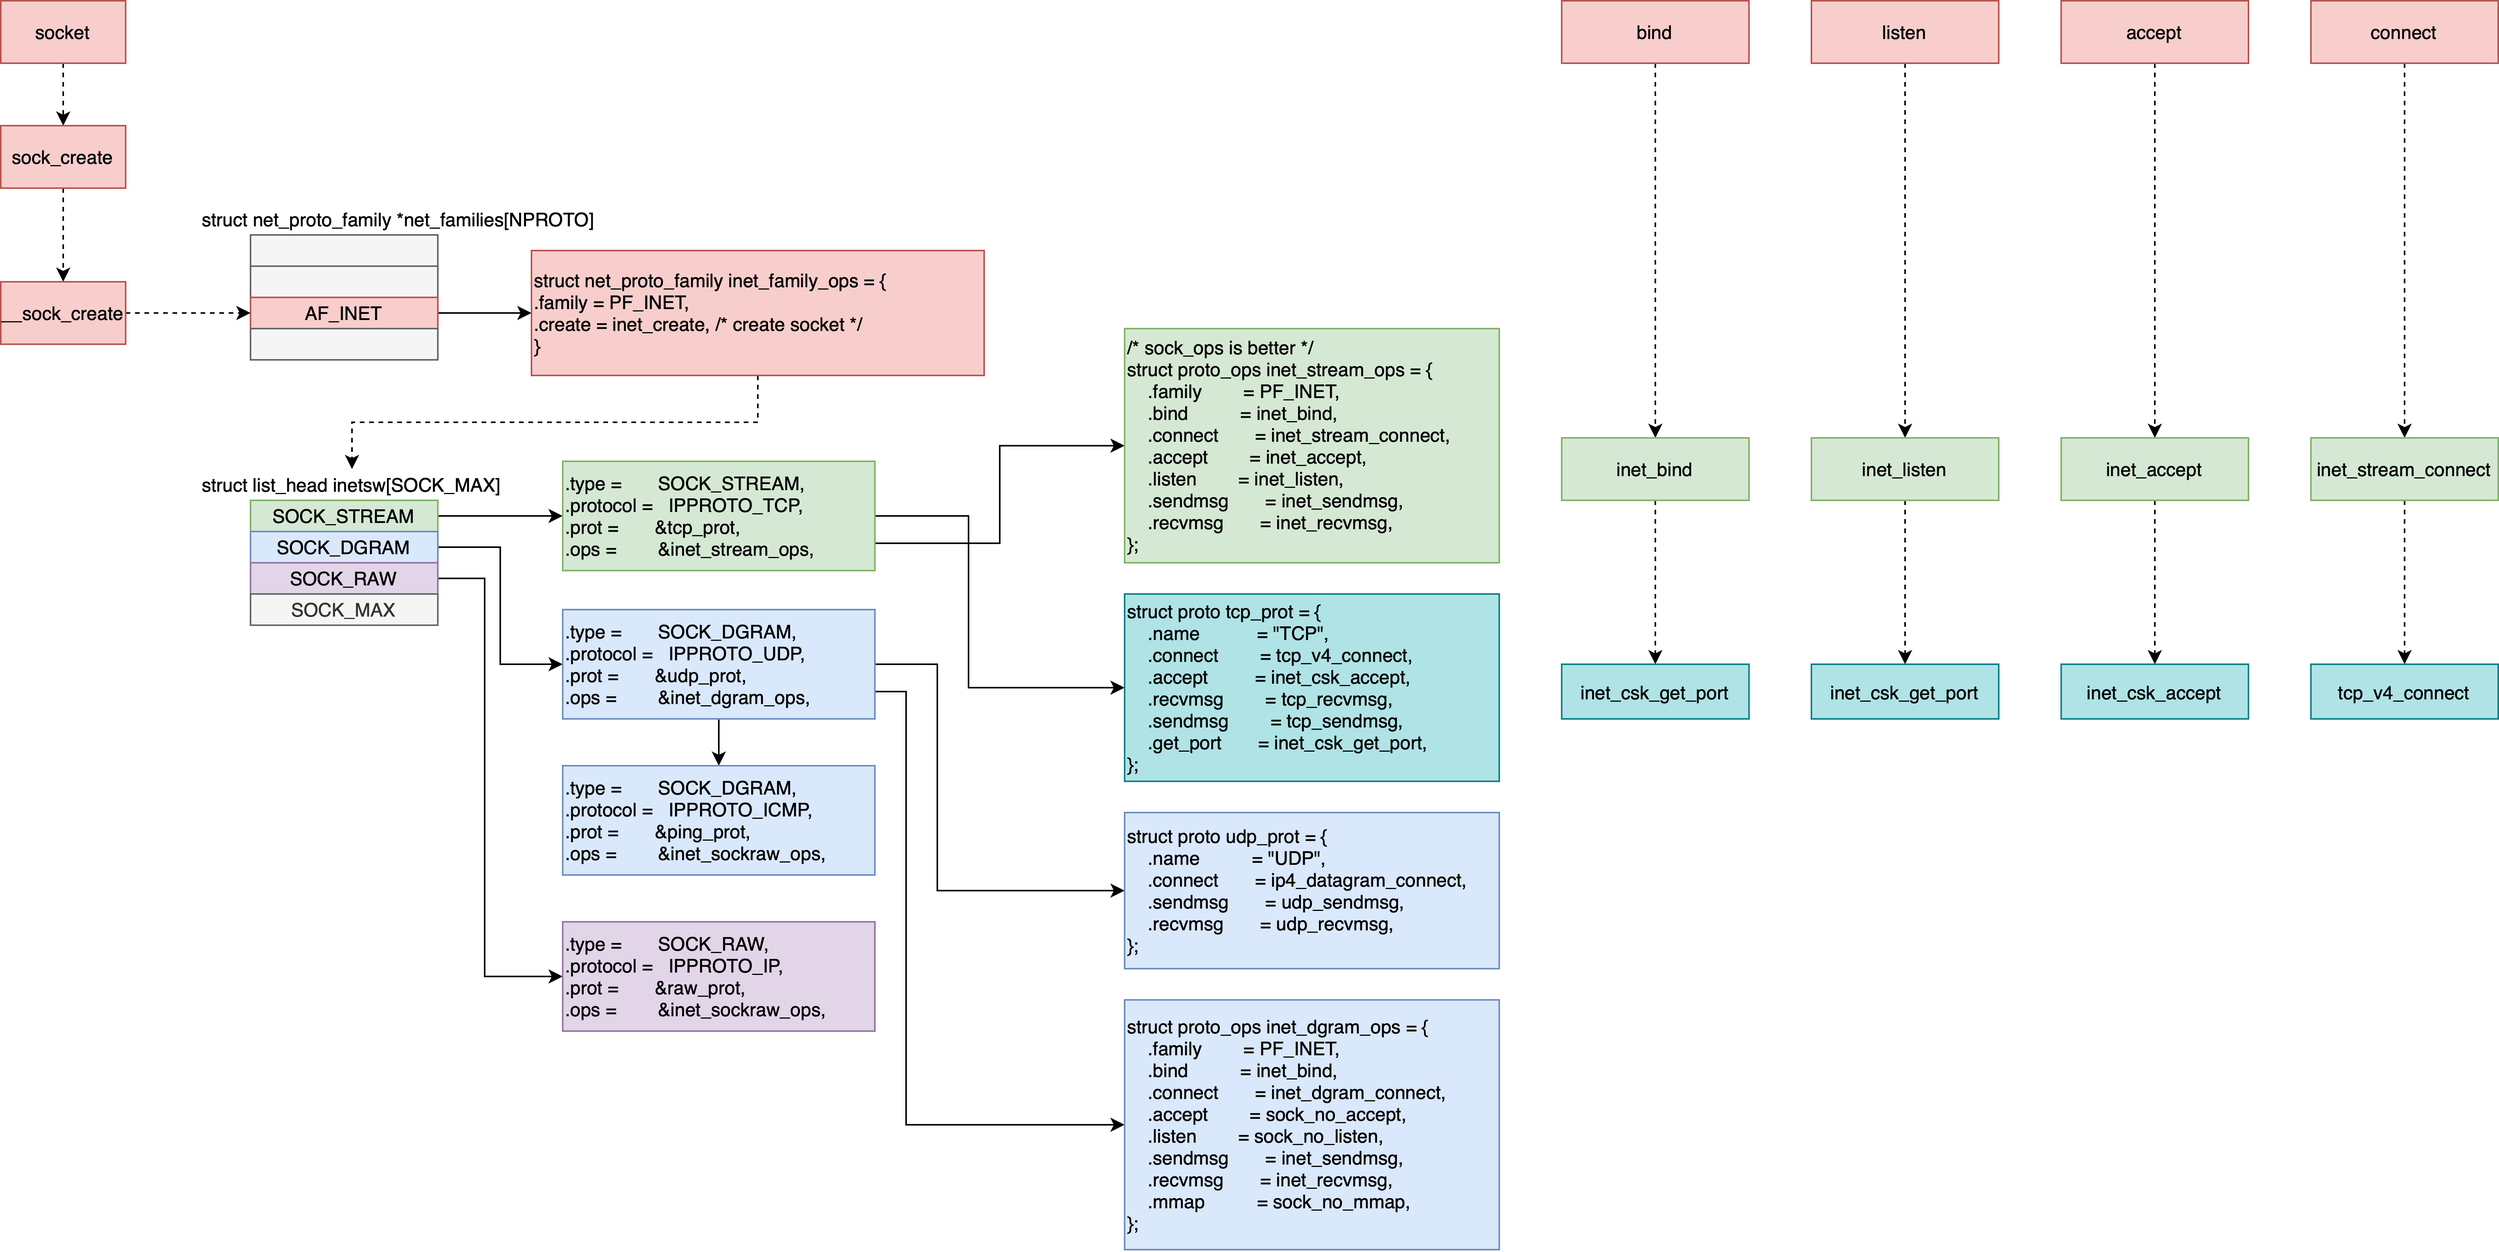
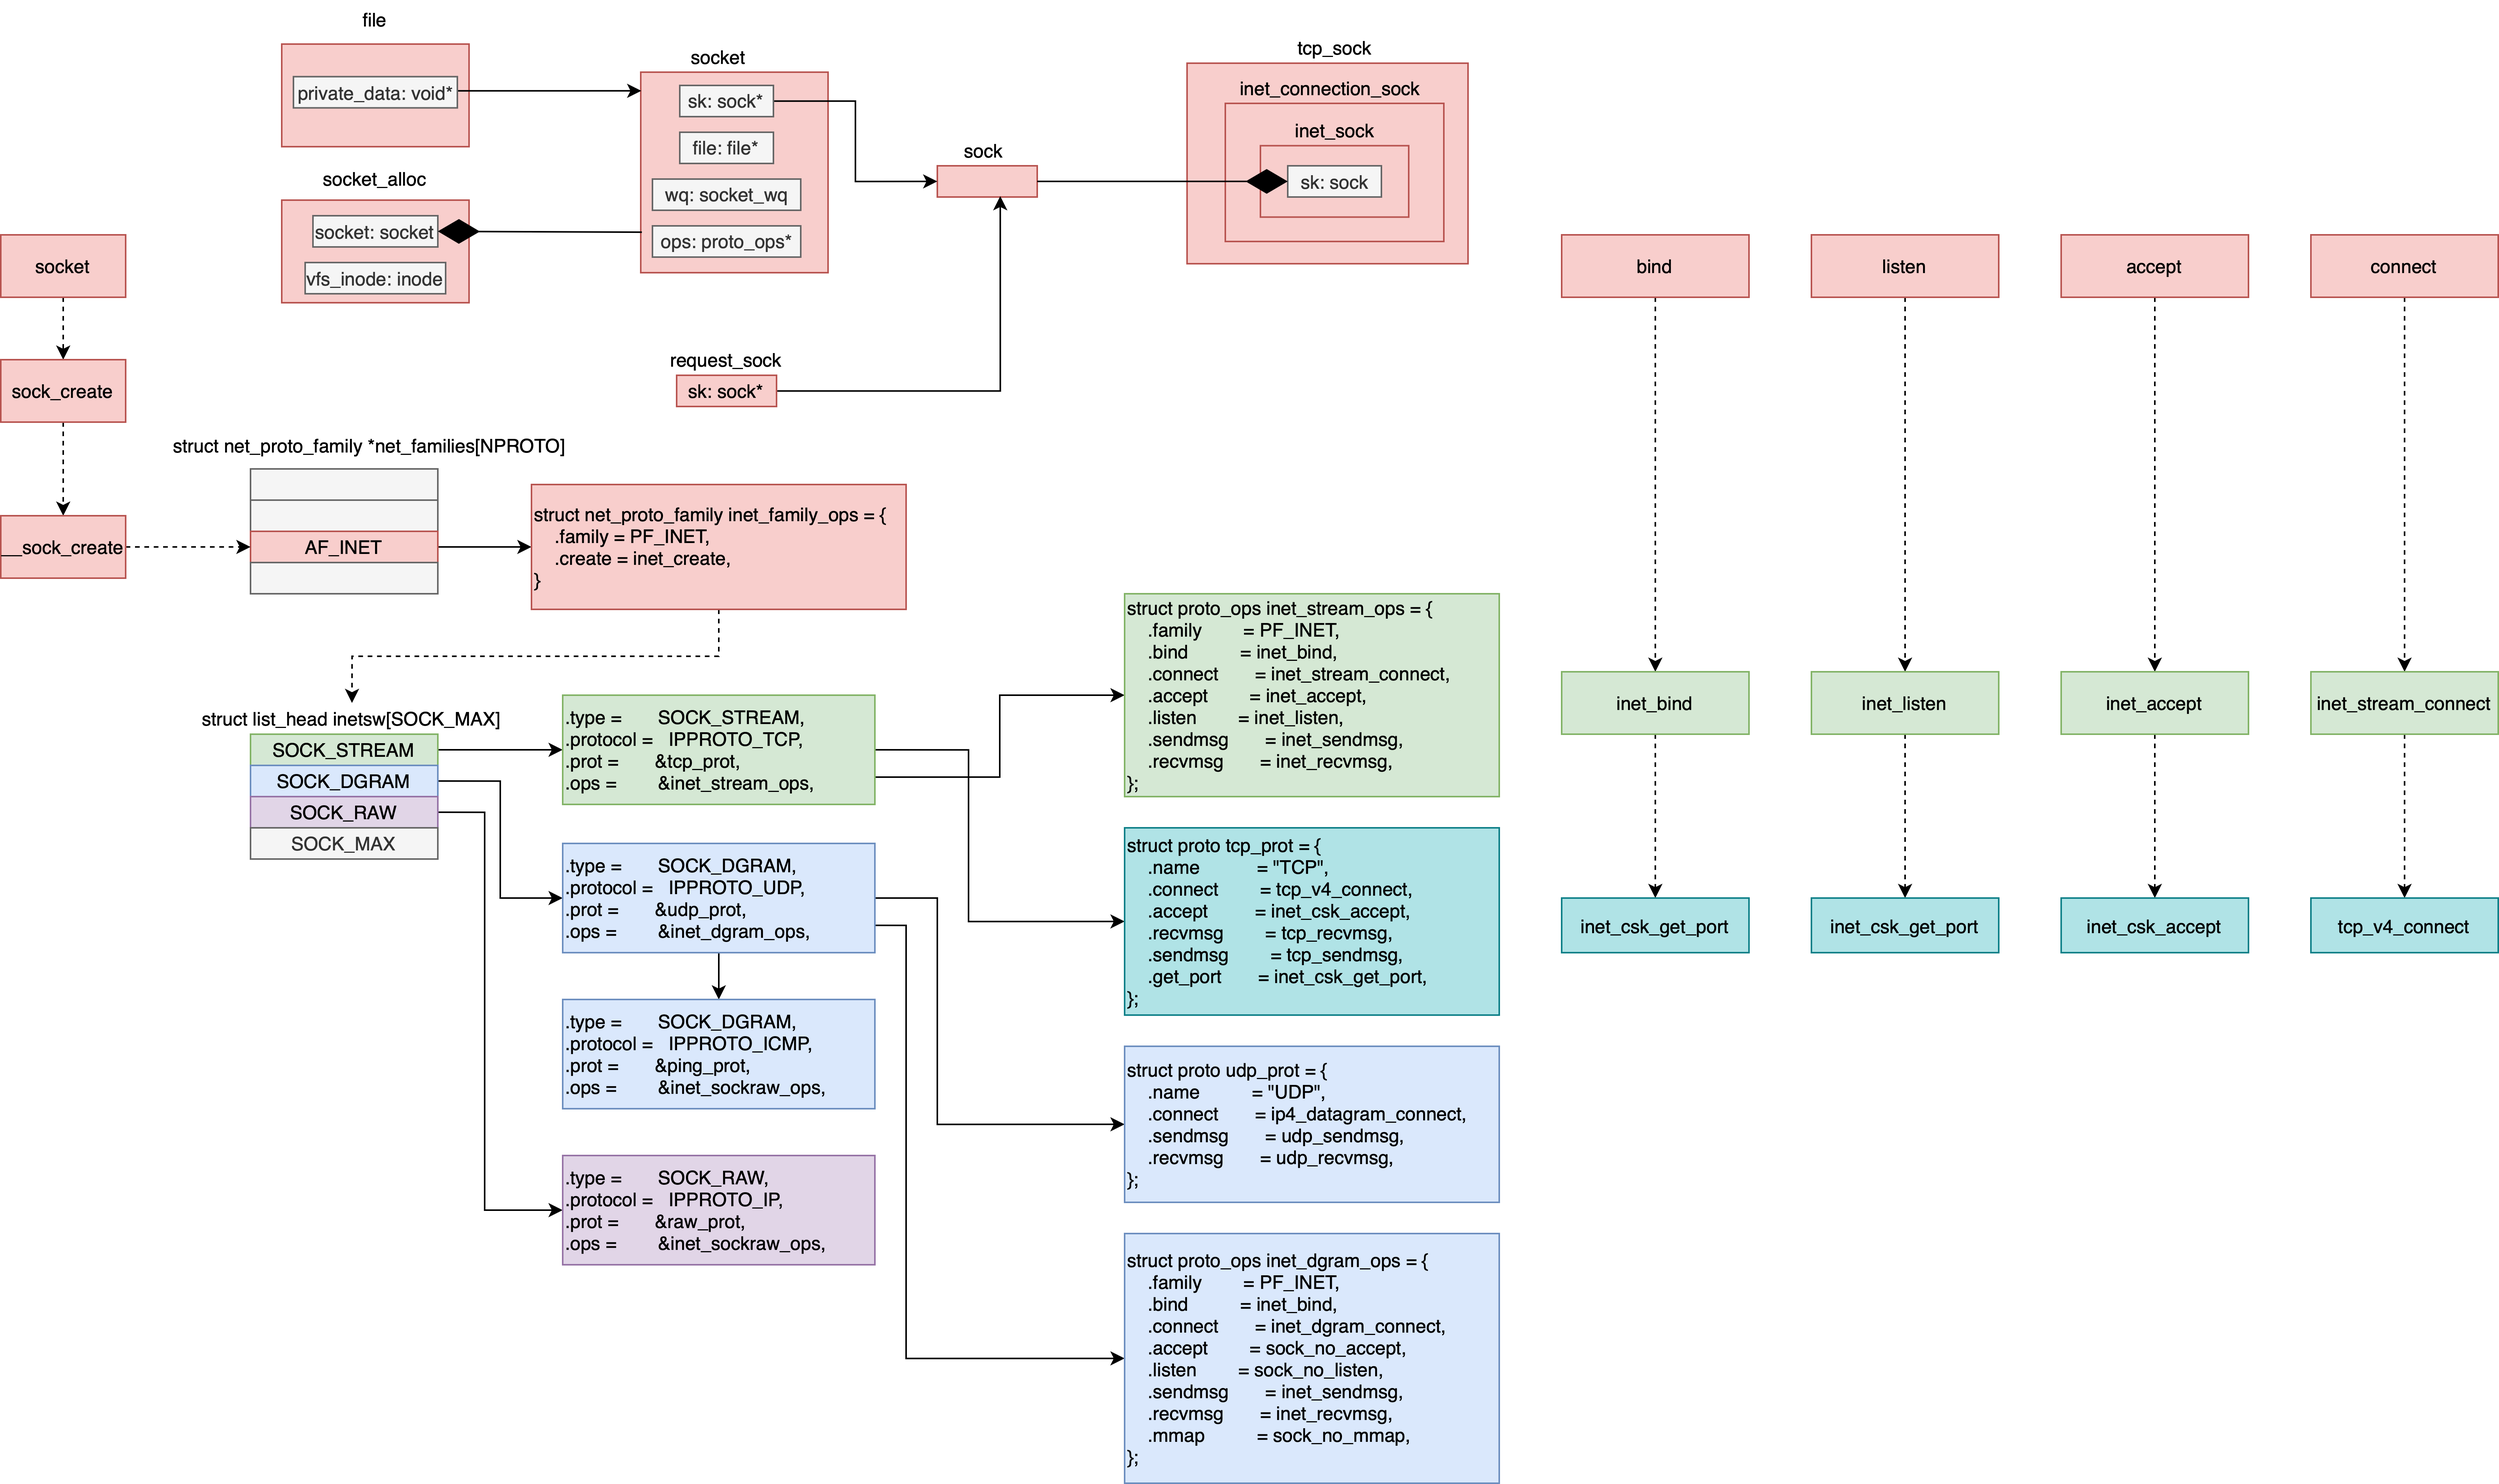
Linux kernel: net

diff --git a/Linux/LinuxKernel.md b/Linux/LinuxKernel.md
@@ -3347,7 +3347,6 @@ void *kmap_atomic_prot(struct page *page, pgprot_t prot)
 {
   // on 64 bit machine doesn't have high memory
   if (!PageHighMem(page))
-    // get virtual address of a page from `page_address_htable`
     return page_address(page);
 
   // on 32 bit machine
@@ -3355,6 +3354,33 @@ void *kmap_atomic_prot(struct page *page, pgprot_t prot)
   set_pte(kmap_pte-idx, mk_pte(page, prot));
 
   return (void *)vaddr;
+}
+/* get the mapped virtual address of a page */
+void *page_address(const struct page *page)
+{
+  unsigned long flags;
+  void *ret;
+  struct page_address_slot *pas;
+
+  if (!PageHighMem(page))
+    return lowmem_page_address(page);
+
+  pas = page_slot(page);
+  ret = NULL;
+  spin_lock_irqsave(&pas->lock, flags);
+  if (!list_empty(&pas->lh)) {
+    struct page_address_map *pam;
+
+    list_for_each_entry(pam, &pas->lh, list) {
+      if (pam->page == page) {
+        ret = pam->virtual;
+        goto done;
+      }
+    }
+  }
+done:
+  spin_unlock_irqrestore(&pas->lock, flags);
+  return ret;
 }
 
 // page_address ->
@@ -3366,7 +3392,7 @@ static  void *lowmem_page_address(const struct page *page)
 #define page_to_virt(x)  __va(PFN_PHYS(page_to_pfn(x)
 ```
 
-### kernel page fault
+### vmalloc_fault
 ```C++
 static noinline int vmalloc_fault(unsigned long address)
 {
@@ -3394,6 +3420,7 @@ static noinline int vmalloc_fault(unsigned long address)
 1. Does different kmem_cache share the same kmem_cache_cpu?
 2. Where does `struct kmem_cache_cpu __percpu *cpu_slab;` stored in each cpu?
 3. Does  `alloc_zeroed_user_highpage_movable` alloc a page each time for each anonymous mapping?
+4. Does it vitual addr or physical addr when user writing a file in write sys call?
 
 # File Management
 ![linux-file-vfs-system.png](../Images/linux-file-vfs-system.png)
@@ -9042,7 +9069,6 @@ semop();
 1. How access shm by a vm address?
 
 # Net
-### socket
 ```C++
 struct socket_alloc {
   struct socket socket;
@@ -9099,6 +9125,7 @@ struct inet_sock {
 ```
 ![linux-net-socket-sock.png](../Images/linux-net-socket-sock.png)
 
+### socket
 ```C++
 SYSCALL_DEFINE3(socket, int, family, int, type, int, protocol)
 {
@@ -9137,6 +9164,59 @@ int __sock_create(
   *res = sock;
 
   return 0;
+}
+
+struct socket *sock_alloc(void)
+{
+  struct inode *inode;
+  struct socket *sock;
+
+  inode = new_inode_pseudo(sock_mnt->mnt_sb);
+  sock = SOCKET_I(inode);
+
+  inode->i_ino = get_next_ino();
+  inode->i_mode = S_IFSOCK | S_IRWXUGO;
+  inode->i_uid = current_fsuid();
+  inode->i_gid = current_fsgid();
+  inode->i_op = &sockfs_inode_ops;
+
+  return sock;
+}
+
+struct inode *new_inode_pseudo(struct super_block *sb)
+{
+  struct inode *inode = alloc_inode(sb);
+
+  if (inode) {
+    spin_lock(&inode->i_lock);
+    inode->i_state = 0;
+    spin_unlock(&inode->i_lock);
+    INIT_LIST_HEAD(&inode->i_sb_list);
+  }
+  return inode;
+}
+
+static struct inode *alloc_inode(struct super_block *sb)
+{
+  struct inode *inode;
+
+  if (sb->s_op->alloc_inode)
+    inode = sb->s_op->alloc_inode(sb);
+  else
+    inode = kmem_cache_alloc(inode_cachep, GFP_KERNEL);
+
+  if (!inode)
+    return NULL;
+
+  if (unlikely(inode_init_always(sb, inode))) {
+    if (inode->i_sb->s_op->destroy_inode)
+      inode->i_sb->s_op->destroy_inode(inode);
+    else
+      kmem_cache_free(inode_cachep, inode);
+    return NULL;
+  }
+
+  return inode;
 }
 
 enum sock_type {
@@ -9617,6 +9697,8 @@ int tcp_v4_connect(struct sock *sk, struct sockaddr *uaddr, int addr_len)
             orig_sport, orig_dport, sk);
 
   tcp_set_state(sk, TCP_SYN_SENT);
+
+  /* add sock to hash table */
   err = inet_hash_connect(tcp_death_row, sk);
   sk_set_txhash(sk);
   rt = ip_route_newports(fl4, rt, orig_sport, orig_dport,
@@ -9656,8 +9738,9 @@ int tcp_connect(struct sock *sk)
   tcp_ecn_send_syn(sk, buff);
 
   /* Send off SYN; include data in Fast Open. */
-  err = tp->fastopen_req ? tcp_send_syn_data(sk, buff) :
-        tcp_transmit_skb(sk, buff, 1, sk->sk_allocation);
+  err = tp->fastopen_req
+    ? tcp_send_syn_data(sk, buff)
+    : tcp_transmit_skb(sk, buff, 1, sk->sk_allocation);
 
   tp->snd_nxt = tp->write_seq;
   tp->pushed_seq = tp->write_seq;
@@ -9976,6 +10059,40 @@ new_segment:
     if (skb_availroom(skb) > 0) {
       copy = min_t(int, copy, skb_availroom(skb));
       err = skb_add_data_nocache(sk, skb, &msg->msg_iter, copy);
+    } else if (!zc) {
+      bool merge = true;
+      int i = skb_shinfo(skb)->nr_frags;
+      struct page_frag *pfrag = sk_page_frag(sk);
+
+      if (!sk_page_frag_refill(sk, pfrag))
+        goto wait_for_memory;
+
+      if (!skb_can_coalesce(skb, i, pfrag->page, pfrag->offset)) {
+        if (i >= sysctl_max_skb_frags) {
+          tcp_mark_push(tp, skb);
+          goto new_segment;
+        }
+        merge = false;
+      }
+
+      copy = min_t(int, copy, pfrag->size - pfrag->offset);
+      if (!sk_wmem_schedule(sk, copy))
+        goto wait_for_memory;
+
+      err = skb_copy_to_page_nocache(sk,
+        &msg->msg_iter, skb, pfrag->page, pfrag->offset, copy);
+      if (err)
+        goto do_error;
+
+      /* Update the skb. */
+      if (merge) {
+        skb_frag_size_add(&skb_shinfo(skb)->frags[i - 1], copy);
+      } else {
+        skb_fill_page_desc(skb, i, pfrag->page,
+              pfrag->offset, copy);
+        page_ref_inc(pfrag->page);
+      }
+      pfrag->offset += copy;
     } else {
       bool merge = true;
       int i = skb_shinfo(skb)->nr_frags;
@@ -10014,7 +10131,7 @@ new_segment:
 
 /* __tcp_push_pending_frames | tcp_push_one ->
  * 1. frage segment
- * 2. congestron control
+ * 2. congestion control
  * 3. slide window */
 static bool tcp_write_xmit(struct sock *sk, unsigned int mss_now, int nonagle, int push_one, gfp_t gfp)
 {
@@ -10964,7 +11081,7 @@ __dev_queue_xmit();
       __netif_schdule(q);
         __netif_reschedule(q);
           *this_cpu_ptr(&softnet_data)->output_queue_tailp = q;
-          raise_softirq_irqoff(NET_TX_SOFTIRQ);
+          raise_softirq_irqoff(NET_TX_SOFTIRQ); /* return to user space */
 
           net_tx_action();
             qdisc_run(q);
@@ -11920,13 +12037,88 @@ int __sk_backlog_rcv(struct sock *sk, struct sk_buff *skb)
 
   return ret;
 }
+
+int sk_wait_data(struct sock *sk, long *timeo, const struct sk_buff *skb)
+{
+  DEFINE_WAIT_FUNC(wait, woken_wake_function);
+  int rc;
+
+  add_wait_queue(sk_sleep(sk), &wait);
+  sk_set_bit(SOCKWQ_ASYNC_WAITDATA, sk);
+  rc = sk_wait_event(sk, timeo, skb_peek_tail(&sk->sk_receive_queue) != skb, &wait);
+  sk_clear_bit(SOCKWQ_ASYNC_WAITDATA, sk);å
+  remove_wait_queue(sk_sleep(sk), &wait);
+  return rc;
+}
+
+#define sk_wait_event(__sk, __timeo, __condition, __wait)    \
+  ({  int __rc;            \
+    release_sock(__sk);          \
+    __rc = __condition;          \
+    if (!__rc) {            \
+      *(__timeo) = wait_woken(__wait, TASK_INTERRUPTIBLE, *(__timeo));\
+    }              \
+    sched_annotate_sleep();          \
+    lock_sock(__sk);          \
+    __rc = __condition;          \
+    __rc;              \
+  })
+
+long wait_woken(struct wait_queue_entry *wq_entry, unsigned mode, long timeout)
+{
+  /* The below executes an smp_mb(), which matches with the full barrier
+   * executed by the try_to_wake_up() in woken_wake_function() such that
+   * either we see the store to wq_entry->flags in woken_wake_function()
+   * or woken_wake_function() sees our store to current->state. */
+  set_current_state(mode); /* A */
+  if (!(wq_entry->flags & WQ_FLAG_WOKEN) && !is_kthread_should_stop())
+    timeout = schedule_timeout(timeout);
+  __set_current_state(TASK_RUNNING);
+
+  /* The below executes an smp_mb(), which matches with the smp_mb() (C)
+   * in woken_wake_function() such that either we see the wait condition
+   * being true or the store to wq_entry->flags in woken_wake_function()
+   * follows ours in the coherence order. */
+  smp_store_mb(wq_entry->flags, wq_entry->flags & ~WQ_FLAG_WOKEN); /* B */
+
+  return timeout;
+}
+
+int woken_wake_function(
+  struct wait_queue_entry *wq_entry, unsigned mode, int sync, void *key)
+{
+  /* Pairs with the smp_store_mb() in wait_woken(). */
+  smp_mb(); /* C */
+  wq_entry->flags |= WQ_FLAG_WOKEN;
+
+  return default_wake_function(wq_entry, mode, sync, key);
+}
+
+int default_wake_function(
+  wait_queue_entry_t *curr, unsigned mode, int wake_flags, void *key)
+{
+  return try_to_wake_up(curr->private, mode, wake_flags);
+}
+
+/* wait_queue_entry::flags */
+#define WQ_FLAG_EXCLUSIVE  0x01
+#define WQ_FLAG_WOKEN      0x02
+#define WQ_FLAG_BOOKMARK   0x04
+
+struct wait_queue_entry {
+  unsigned int      flags;
+  void              *private;
+  wait_queue_func_t func;
+  struct list_head  entry;
+};
+
 ```
 ![linux-net-read.png](../Images/linux-net-read.png)
 
 ### epoll
 ```c++
 typedef union epoll_data {
-  void    *ptr;
+  void     *ptr;
   int      fd;
   uint32_t u32;
   uint64_t u64;
